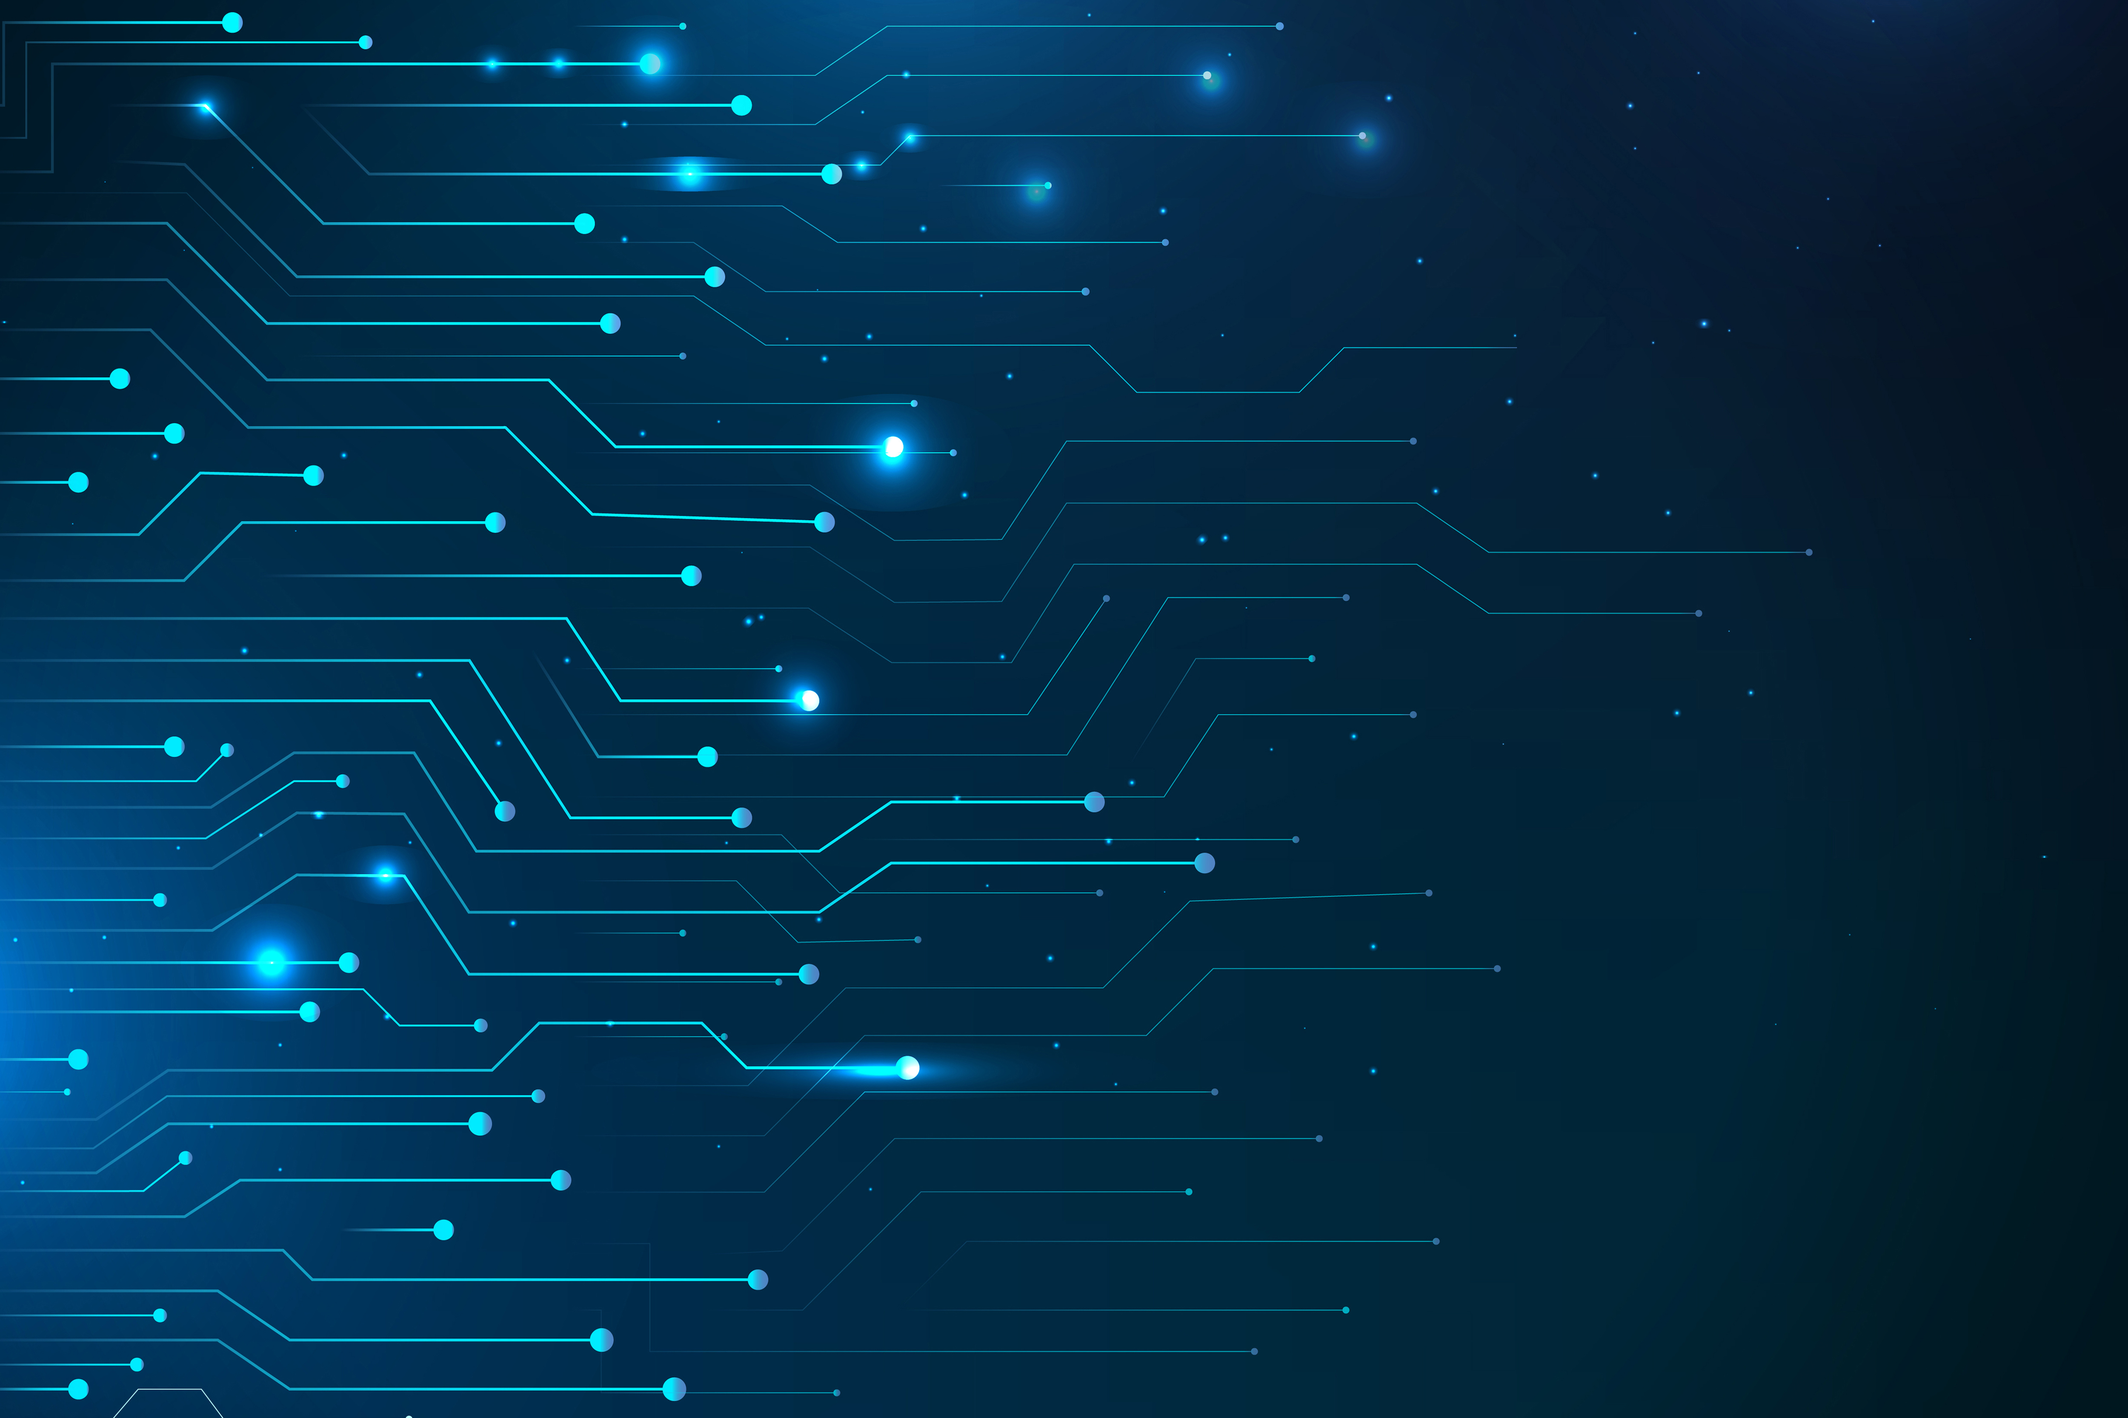
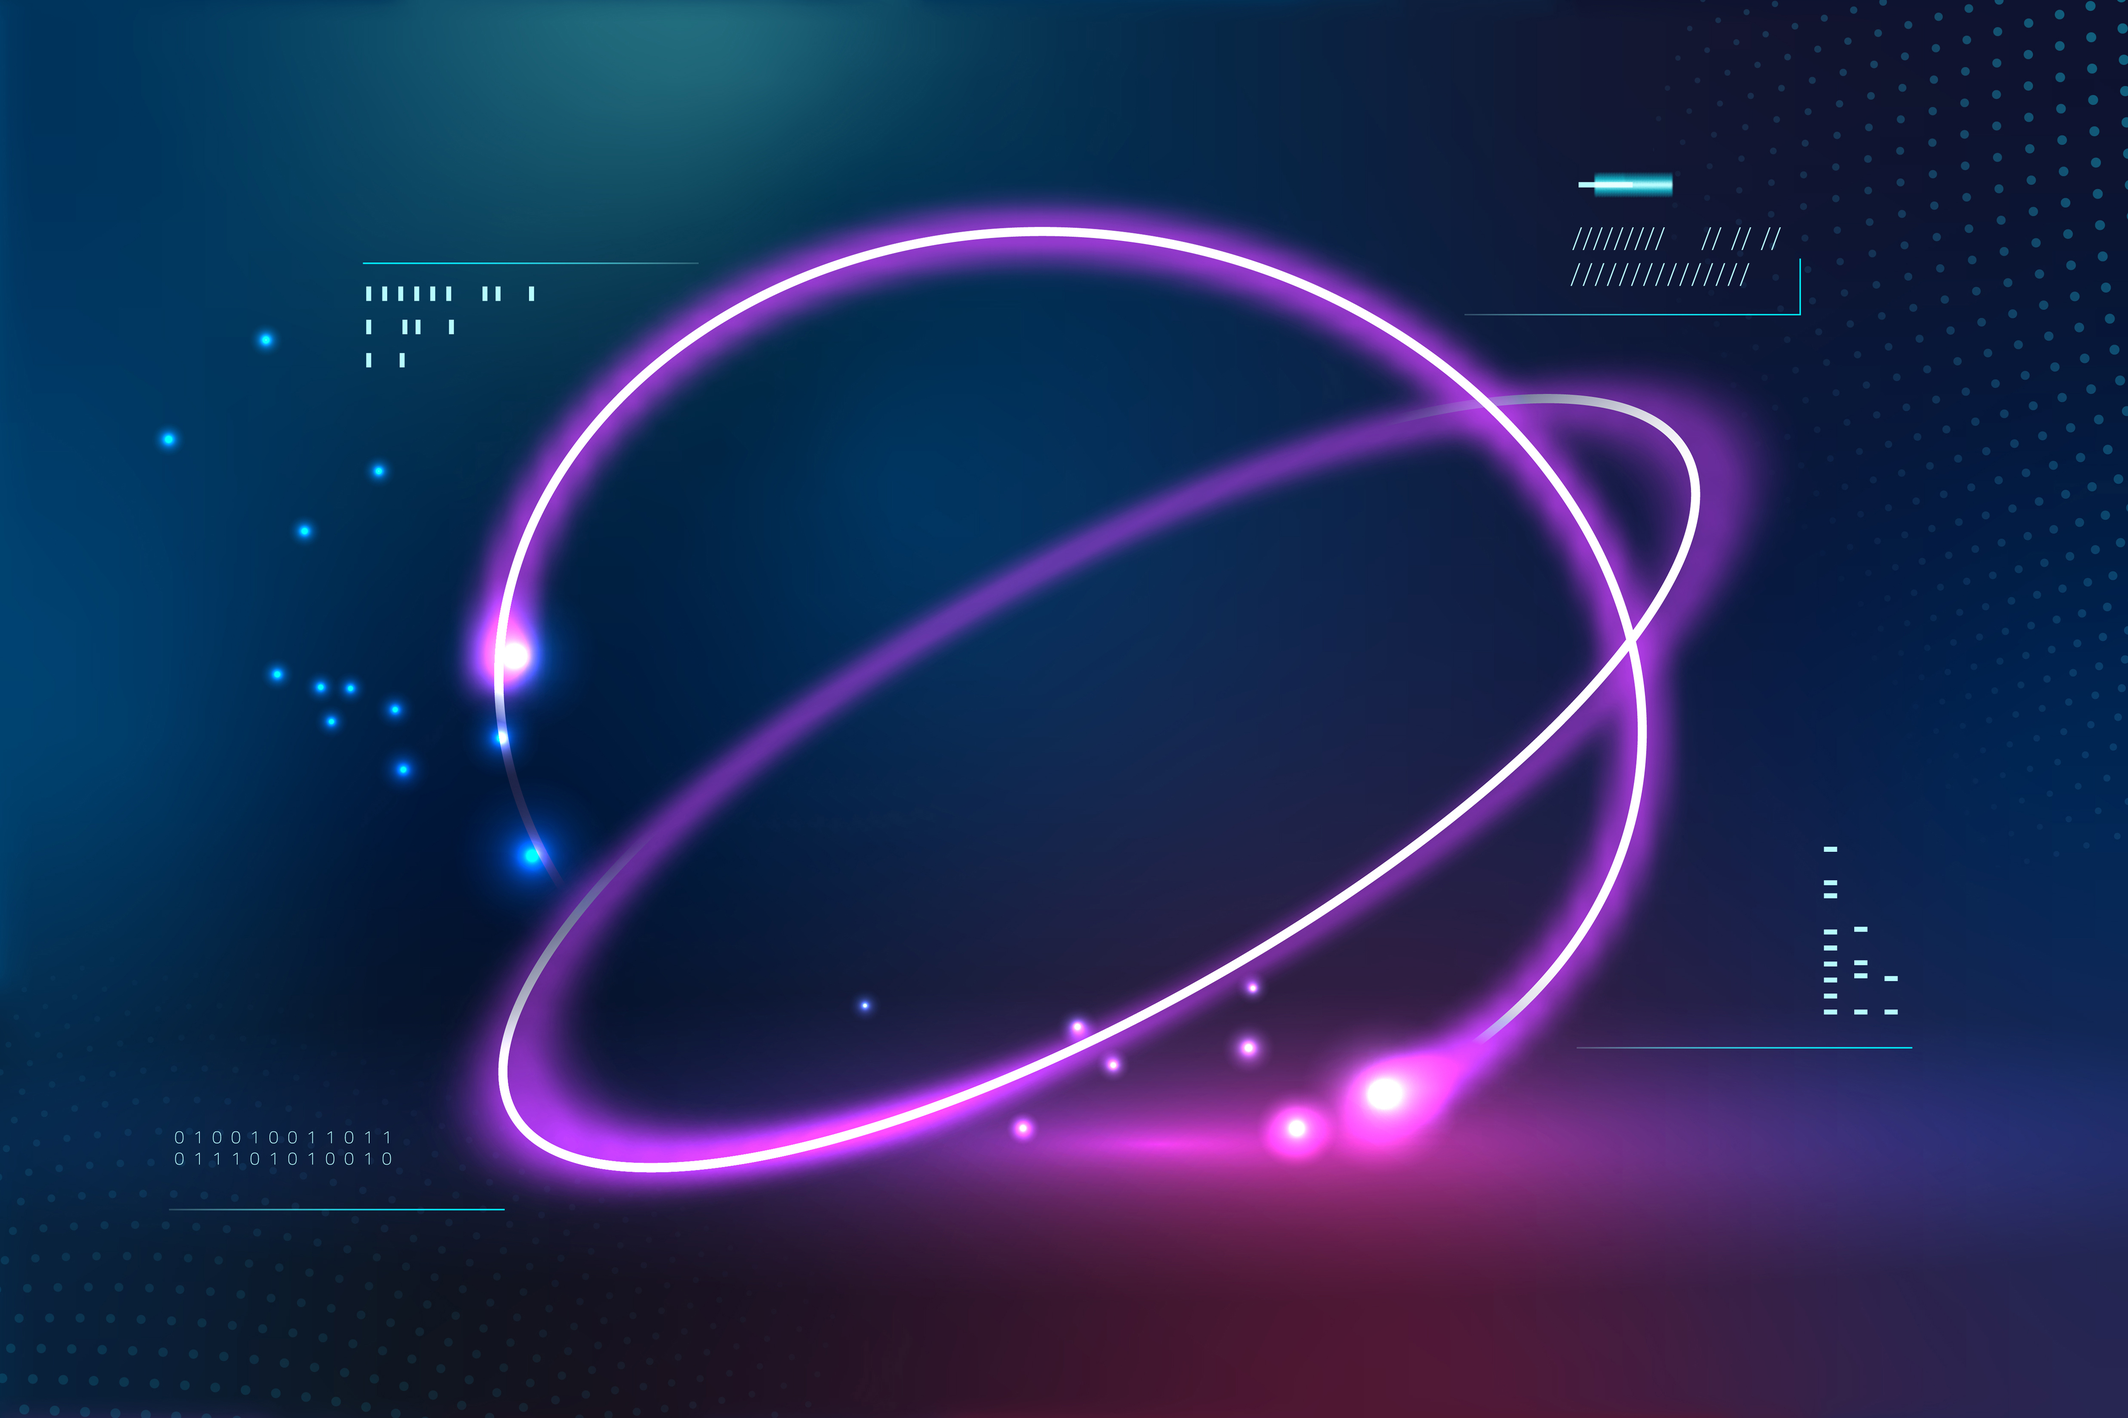
Cambios en index y base de conocimiento, imagen fija por dia - FABIAN

diff --git a/AppTI/web/Interface/Content/Assets/css/start.css b/AppTI/web/Interface/Content/Assets/css/start.css
@@ -16,20 +16,23 @@
 
 .mod-panel {
     position: fixed;
-    top: 70px; /* ajusta según navbar */
-    right: -364px;
+    top: 70px;
+    right: -360px;             /* 🔹 Panel oculto por defecto */
     background: #fff;
     width: auto;
-    max-width: 340px;
+    max-width: 359px;
     border-left: 1px solid #ddd;
     box-shadow: -2px 0 8px rgba(0, 0, 0, 0.1);
     z-index: 1050;
     border-radius: 8px 0 0 8px;
-    transition: all 0.3s ease;
-    height: -webkit-fill-available;
+    transition: right 0.3s ease; /* animación más clara */
+    height: auto;
+    overflow-y: auto;
+    overflow-x: hidden;
 }
 .mod-panel.active{
     right: 0;
+    position: absolute;
 }
 
 .mod-icon-card {
@@ -99,13 +102,24 @@
 
 /* CSS que debes añadir (head o justo antes del swal) */
 .swal-modal.custom-swal-width {
-  width: 46% !important;        /* ancho deseado */
+    width: 46% !important;        /* ancho deseado */
 }
 
 /* Responsive: en pantallas más pequeñas ajusta el ancho */
 @media (max-width: 992px) {
-  .swal-modal.custom-swal-width { width: 76% !important; }
+    .swal-modal.custom-swal-width { width: 76% !important; }
 }
 @media (max-width: 576px) {
-  .swal-modal.custom-swal-width { width: 89% !important; }
+    .swal-modal.custom-swal-width { width: 89% !important; }
+}
+.scrollRowDiv{
+    max-height: 91%;
+    height: 91%;
+    overflow-y: auto;
+}
+.SaveButtom{
+    border-radius: 4px;
+    position: absolute;
+    left: 38%;
+    bottom: 7px;
 }

diff --git a/AppTI/src/java/Tag/Tag_start.java b/AppTI/src/java/Tag/Tag_start.java
@@ -56,72 +56,72 @@ public class Tag_start extends TagSupport {
             out.print("</div>");
 
             if (CheckPending > 0) {
-            //<editor-fold defaultstate="collapsed" desc="ALERT PENDING">
-            lst_pending = PedingJpa.ConsultPendingAlert(NameRol, NameUser);
-            if (lst_pending != null) {
-                StringBuilder sb = new StringBuilder();
-                sb.append("<div class='container-fluid' style='max-height:320px; overflow-y:auto;'>");
+                //<editor-fold defaultstate="collapsed" desc="ALERT PENDING">
+                lst_pending = PedingJpa.ConsultPendingAlert(NameRol, NameUser);
+                if (lst_pending != null) {
+                    StringBuilder sb = new StringBuilder();
+                    sb.append("<div class='container-fluid' style='max-height:320px; overflow-y:auto;'>");
 
-                sb.append("<div class='card shadow-sm' style='border-radius:12px; overflow:hidden;'>");
+                    sb.append("<div class='card shadow-sm' style='border-radius:12px; overflow:hidden;'>");
 
-                sb.append("<div class='card-body p-0'>");
-                sb.append("<table class='table mb-0 table-sm text-center align-middle'>");
-                sb.append("<thead style='background-color:#f9fafb;'>");
-                sb.append("<tr>");
-                sb.append("<th>Rol</th>");
-                sb.append("<th><span class='text-danger'>Vencidos</span></th>");
-                sb.append("<th><span class='text-warning'>Por vencer hoy</span></th>");
-                sb.append("<th><span class='text-success'>Vigentes</span></th>");
-                sb.append("<th><span class='text-primary'>Total</span></th>");
-                sb.append("</tr>");
-                sb.append("</thead>");
-                sb.append("<tbody>");
-                for (int i = 0; i < lst_pending.size(); i++) {
-                    Object[] ObjCount = (Object[]) lst_pending.get(i);
+                    sb.append("<div class='card-body p-0'>");
+                    sb.append("<table class='table mb-0 table-sm text-center align-middle'>");
+                    sb.append("<thead style='background-color:#f9fafb;'>");
                     sb.append("<tr>");
-                    sb.append("<td style='font-weight:600;'>").append(ObjCount[0]).append("</td>"); // Rol
-                    sb.append("<td><span class='badge bg-danger fs-5 px-3 text-white'>").append(ObjCount[1]).append("</span></td>"); // Vencidos
-                    sb.append("<td><span class='badge bg-warning fs-5 px-3 text-white'>").append(ObjCount[2]).append("</span></td>"); // Por vencer hoy
-                    sb.append("<td><span class='badge bg-success fs-5 px-3 text-white'>").append(ObjCount[3]).append("</span></td>"); // Sin vencimiento
-                    sb.append("<td><span class='badge bg-primary fs-5 px-3 text-white'>").append(ObjCount[4]).append("</span></td>"); // Total
+                    sb.append("<th>Rol</th>");
+                    sb.append("<th><span class='text-danger'>Vencidos</span></th>");
+                    sb.append("<th><span class='text-warning'>Por vencer hoy</span></th>");
+                    sb.append("<th><span class='text-success'>Vigentes</span></th>");
+                    sb.append("<th><span class='text-primary'>Total</span></th>");
                     sb.append("</tr>");
+                    sb.append("</thead>");
+                    sb.append("<tbody>");
+                    for (int i = 0; i < lst_pending.size(); i++) {
+                        Object[] ObjCount = (Object[]) lst_pending.get(i);
+                        sb.append("<tr>");
+                        sb.append("<td style='font-weight:600;'>").append(ObjCount[0]).append("</td>"); // Rol
+                        sb.append("<td><span class='badge bg-danger fs-5 px-3 text-white'>").append(ObjCount[1]).append("</span></td>"); // Vencidos
+                        sb.append("<td><span class='badge bg-warning fs-5 px-3 text-white'>").append(ObjCount[2]).append("</span></td>"); // Por vencer hoy
+                        sb.append("<td><span class='badge bg-success fs-5 px-3 text-white'>").append(ObjCount[3]).append("</span></td>"); // Sin vencimiento
+                        sb.append("<td><span class='badge bg-primary fs-5 px-3 text-white'>").append(ObjCount[4]).append("</span></td>"); // Total
+                        sb.append("</tr>");
+                    }
+                    sb.append("</tbody>");
+
+                    sb.append("</table>");
+                    sb.append("</div>"); // cierre card-body
+                    sb.append("</div>"); // cierre card
+                    sb.append("</div>"); // cierre container-fluid
+
+                    String htmlContent = sb.toString().replace("\"", "\\\"");
+
+                    out.print("<div>");
+                    out.print("<script>");
+                    out.print("$(document).ready(function () {");
+                    out.print("  var wrapper = document.createElement('div');");
+                    out.print("  wrapper.innerHTML = \"" + htmlContent + "\";");
+                    out.print("  swal({");
+                    out.print("    title: 'Pendientes',");
+                    out.print("    content: wrapper,");
+                    out.print("    icon: 'warning',");
+                    out.print("    buttons: false,");
+                    out.print("    className: 'custom-swal-width'");  // clase personalizada
+                    out.print("  }).then(function(){");
+                    out.print("    $.post('Session?opt=6', function(resp){ console.log('CheckPending reiniciado a 0'); });");
+                    out.print("  });");
+                    out.print("});");
+                    out.print("</script>");
+
+                    out.print("</div>");
                 }
-                sb.append("</tbody>");
-
-                sb.append("</table>");
-                sb.append("</div>"); // cierre card-body
-                sb.append("</div>"); // cierre card
-                sb.append("</div>"); // cierre container-fluid
-
-                String htmlContent = sb.toString().replace("\"", "\\\"");
-
-                out.print("<div>");
-                out.print("<script>");
-                out.print("$(document).ready(function () {");
-                out.print("  var wrapper = document.createElement('div');");
-                out.print("  wrapper.innerHTML = \"" + htmlContent + "\";");
-                out.print("  swal({");
-                out.print("    title: 'Pendientes',");
-                out.print("    content: wrapper,");
-                out.print("    icon: 'warning',");
-                out.print("    buttons: false,");
-                out.print("    className: 'custom-swal-width'");  // clase personalizada
-                out.print("  }).then(function(){");
-                out.print("    $.post('Session?opt=6', function(resp){ console.log('CheckPending reiniciado a 0'); });");
-                out.print("  });");
-                out.print("});");
-                out.print("</script>");
-
-                out.print("</div>");
-            }
-            //</editor-fold>
+                //</editor-fold>
             }
 
             out.print("<div class='container mt-4'>");
 
-            out.print("<div class='row g-4'>"); // g-4 agrega espacio entre columnas/fila
+            out.print("<div class=\"row d-flex flex-wrap\">");
             //<editor-fold defaultstate="collapsed" desc="CONTADORES APPTI">
-            lst_items = DashJpa.ConsultScheduleFollowItems(CurrYear, (CurrMonth + 1));
+            lst_items = DashJpa.ConsultScheduleFollowItems(CurrYear, (CurrMonth + 1), NameRol, NameUser);
             if (lst_items != null) {
                 for (int i = 0; i < lst_items.size(); i++) {
                     Object[] ObjItems = (Object[]) lst_items.get(i);
@@ -143,9 +143,6 @@ public class Tag_start extends TagSupport {
                 }
             }
             //</editor-fold>
-            out.print("</div>"); // Fin container
-
-            out.print("<div class=\"row\">");
             //<editor-fold defaultstate="collapsed" desc="PENDIENTE ANUALES">
             lst_follow = DashJpa.ConsultPendingHistory(CurrYear);
             if (lst_follow != null) {
@@ -156,7 +153,7 @@ public class Tag_start extends TagSupport {
                     labelData += "'" + ObjType[1].toString() + "', ";
                     valueData += ObjType[2].toString() + ", ";
                 }
-                out.print("<div class='col-md-7'>");
+                out.print("<div class='col-lg-6'>");
 
                 out.print("<div class=\"card\" id='I' style='display:" + (Module.contains("I") ? "block" : "none") + "'>"
                         + "                <div class=\"card-header\">"
@@ -193,7 +190,7 @@ public class Tag_start extends TagSupport {
             //<editor-fold defaultstate="collapsed" desc="ACTIVIDADES RECIENTES">
             lst_activity = DashJpa.ConsultActiviryRecent(CurrYear, (CurrMonth + 1));
             if (lst_activity != null) {
-                out.print("<div class=\"col-md-5\">");
+                out.print("<div class=\"col-lg-6\">");
                 out.print("<div class=\"card\" id='J' style='display:" + (Module.contains("J") ? "block" : "none") + "'>");
                 out.print("<div class=\"card-header\">");
                 out.print("<h4>Actividades recientes</h4>");
@@ -211,7 +208,7 @@ public class Tag_start extends TagSupport {
                         out.print(ObjModule[2]);
                         out.print("    </div>");
                     }
-                    out.print("    <div class=\"activity-detail w-100\" style='margin-bottom:9px !important;'>");
+                    out.print("    <div class=\"activity-detail\" style='margin-bottom:9px !important;'>");
                     out.print("  <div class='d-flex justify-content-between mb-2'>");
                     out.print("    <span class='text-job text-primary'>" + ObjActivity[1] + "</span>");
                     out.print("    <span class='text-job text-warning'>" + ObjActivity[4] + "</span>");
@@ -225,11 +222,16 @@ public class Tag_start extends TagSupport {
                 out.print("</div>");
             }
             //</editor-fold>
+            //<editor-fold defaultstate="collapsed" desc="PROGRAMACION DE TURNO">
+            out.print("<div class=\"col-lg-6\">");
+            
+            out.print("</div>");
+            //</editor-fold>
             out.print("</div>");
 
             out.print("</div>");
 
-            out.print("</div>");
+            out.print("</section>");
 
             //<editor-fold defaultstate="collapsed" desc="CONTADOR - HABILITAR MODAL">
             out.print("<div class='setting_toggle' id=\"customize-toggle\" onclick=\"toggleCustomizer()\">");
@@ -243,22 +245,25 @@ public class Tag_start extends TagSupport {
             out.print("    <button class='btn btn-link text-dark p-0' onclick=\"toggleCustomizer()\"><i class='fas fa-times'></i></button>");
             out.print("  </div>");
 
-            out.print("  <div class='row p-3'>");
+            out.print("  <div class='row p-3 scrollRowDiv'>");
 
             String[] ArgModule = {
-                "Pendientes", "Bitacora", "Aplicativo en gestión", "Actas sin firmas",
+                "Total Pendientes", "Bitacora", "Aplicativo en gestión", "Actas sin firmas",
                 "Actividad mensuales", "PC en gestión", "Equipos en gestión", "Programaciones pendientes",
-                "Pendientes Anuales", "Actividad Reciente"
+                "Pendientes Anuales", "Actividad Reciente", "Pendientes vencidos", "Pendientes por vencer",
+                "Pendientes vigentes"
             };
             String[] ArgIcon = {
                 "fa-bell", "fa-folder-open", "fa-lightbulb", "fa-file-alt",
                 "fa-calendar", "fa-laptop", "fa-tablet", "fa-clipboard-check",
-                "fa-list", "fa-comments"
+                "fa-list", "fa-comments", "fa-exclamation", "fa-hourglass-half",
+                "fa-check"
             };
             String[] DivOpenClose = {
                 "A", "B", "C", "D",
                 "E", "F", "G", "H",
-                "I", "J"
+                "I", "J", "K", "L",
+                "M"
             };
 
             for (int i = 0; i < ArgModule.length; i++) {
@@ -270,23 +275,16 @@ public class Tag_start extends TagSupport {
                 out.print("</div>");
             }
 
-            out.print("</div>"); // cierre row
-
             out.print("<form id='MyForm' action='Start?opt=2' method='POST'>");
             out.print("<input type=\"hidden\" id=\"modSelectedInput\" name='Module' value='" + Module + "'>");
             out.print("</form>");
 
-            out.print("<div class='text-center'>");
-            out.print("<button class='btn btn-green' style='border-radius: 4px;' data-toggle='tooltip' data-placement='top' onclick='SendForm()'><i class=\"fas fa-save\"></i>Guardar</button>");
-            out.print("</div>");
+            out.print("<button class='btn btn-green SaveButtom' data-toggle='tooltip' data-placement='top' onclick='SendForm()'><i class=\"fas fa-save\"></i>Guardar</button>");
+            out.print("</div>"); // cierre row
+
             out.print("</div>"); // cierre panel
             //</editor-fold>
 
-            out.print("</div>");
-
-            out.print("</div>");
-
-            out.print("</section>");
         } catch (IOException ex) {
             Logger.getLogger(Tag_start.class.getName()).log(Level.SEVERE, null, ex);
         } catch (Exception ex) {

diff --git a/AppTI/src/java/Controller/DashBoardJpaController.java b/AppTI/src/java/Controller/DashBoardJpaController.java
@@ -113,11 +113,11 @@ public class DashBoardJpaController implements Serializable {
         }
     }
 
-    public List ConsultScheduleFollowItems(int yar, int mth) {
+    public List ConsultScheduleFollowItems(int yar, int mth, String cgo, String me) {
         EntityManager etm = getEntityManager();
         etm.getTransaction().begin();
         try {
-            Query q = etm.createNativeQuery("CALL `Sp_str_c_ConsultFollowItems`('" + yar + "','" + mth + "')");
+            Query q = etm.createNativeQuery("CALL `Sp_str_c_ConsultFollowItems`('" + yar + "','" + mth + "','" + cgo + "','" + me + "')");
             List consulta = q.getResultList();
             etm.getTransaction().commit();
             etm.clear();
@@ -170,7 +170,7 @@ public class DashBoardJpaController implements Serializable {
         }
     }
 
-    public boolean UpdateModuleUser(String Module,int idUser) {
+    public boolean UpdateModuleUser(String Module, int idUser) {
         EntityManager em = getEntityManager();
         em.getTransaction().begin();
         try {
